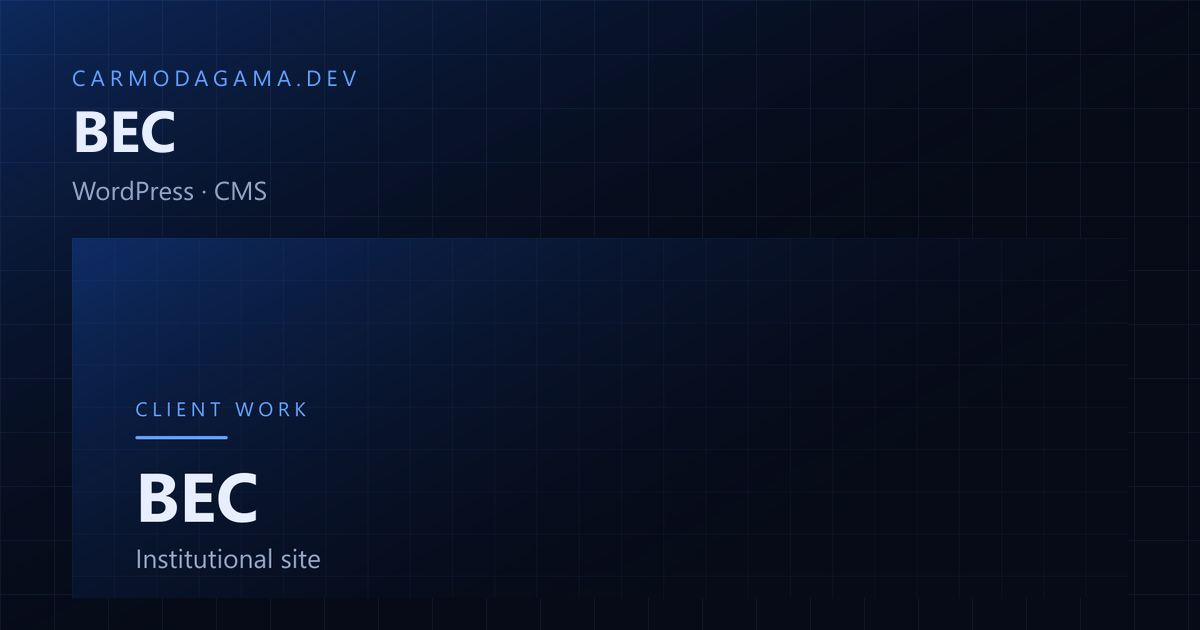
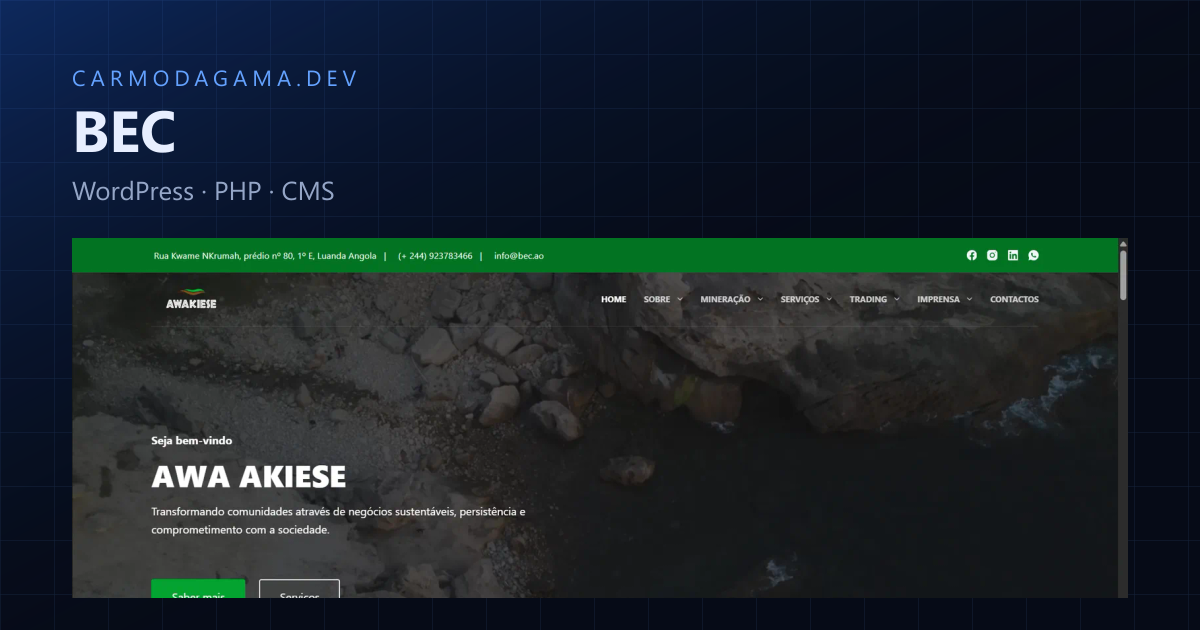
feat: drop two projects and use real screenshots for the client sites
Remove InfraWatch and the health services locator from the projects section.

SMC Cuango, SM Chitotolo and BEC now show screenshots of the live sites instead
of generated artwork, converted to webp at 1600px (1.5 MB PNG each down to
51-84 KB). Projecto Lola keeps its generated cover, since its domain is still
returning 404.

diff --git a/src/i18n/translations.js b/src/i18n/translations.js
@@ -214,20 +214,6 @@ export const translations = {
           password: 'admin123',
         },
         {
-          id: 'infrawatch',
-          name: 'InfraWatch',
-          description: 'Problem: teams running infrastructure need to know something broke before the customer calls, and to separate who can look from who can act. Solution: a real-time monitoring platform with dashboards, metric-processing queues, alerting and role-based access control. My role: a Node.js/TypeScript backend using Redis for queues and ephemeral state, a React frontend for the dashboards, and Docker packaging for reproducible startup. Results: a personal project, developed in the open on GitHub. Stack: Node.js, TypeScript, React, Redis, Docker.',
-          repo: 'https://github.com/CarmoDaGama/InfraWatch',
-          tags: ['Node.js', 'TypeScript', 'React', 'Redis', 'Docker'],
-        },
-        {
-          id: 'myhealth',
-          name: 'Health Services Locator',
-          description: 'Problem: finding the nearest hospital, clinic, pharmacy, emergency unit or laboratory means knowing what exists before you need it — and in an emergency nobody has time to look it up. Solution: a cross-platform mobile app that puts nearby health services on an interactive map, with GPS location, search by name or type, service details, directions and a direct call, plus ratings, comments and favourites. Healthcare professionals can register a service, which an administrator reviews and approves before it goes live. My role: built the app end to end in React Native/Expo with TypeScript — Firebase (Authentication, Firestore, Storage) as the backend, OpenStreetMap with Leaflet for the mapping layer, Portuguese/English localisation with automatic device detection, and an admin dashboard for approvals, roles and action logs. Results: a personal project, developed in the open on GitHub, running entirely within Firebase free-tier limits. Stack: React Native, Expo, TypeScript, Firebase, OpenStreetMap/Leaflet.',
-          repo: 'https://github.com/CarmoDaGama/my-health-app',
-          tags: ['React Native', 'Expo', 'TypeScript', 'Firebase', 'OpenStreetMap'],
-        },
-        {
           id: 'trimed',
           name: 'Trimed',
           description: 'Problem: community platforms needed moderation at scale and distinct experiences per user role; managing permissions by hand was unsustainable. Solution: a multi-tier ecosystem (mobile + web + admin) with real-time moderation, credit management and role-based access control. My role: I architected the cross-platform strategy (React Native for users, Next.js for admins), implemented role-based authorisation, and designed the serverless backend with Firebase Cloud Functions. Results: MVP shipped in weeks, with moderation response time cut against the manual flow. Stack: React Native, Expo, Next.js, Firebase (Firestore, Cloud Functions), TypeScript.',
@@ -531,20 +517,6 @@ export const translations = {
           tags: ['NestJS', 'Next.js', 'PostgreSQL'],
           user: 'admin@microcapital.ao',
           password: 'admin123',
-        },
-        {
-          id: 'infrawatch',
-          name: 'InfraWatch',
-          description: 'Problema: equipas que operam infraestrutura precisam de saber que algo falhou antes do cliente ligar, e de distinguir quem pode ver de quem pode agir. Solução: uma plataforma de monitorização em tempo real, com dashboards, filas de processamento de métricas, alertas e controlo de acesso por funções. O meu papel: backend em Node.js/TypeScript com Redis para filas e estado efémero, frontend React para os dashboards, e empacotamento em Docker para arranque reproduzível. Resultados: projeto próprio, em desenvolvimento aberto no GitHub. Stack: Node.js, TypeScript, React, Redis, Docker.',
-          repo: 'https://github.com/CarmoDaGama/InfraWatch',
-          tags: ['Node.js', 'TypeScript', 'React', 'Redis', 'Docker'],
-        },
-        {
-          id: 'myhealth',
-          name: 'Localizador de Serviços de Saúde',
-          description: 'Problema: encontrar o hospital, clínica, farmácia, unidade de urgência ou laboratório mais próximo obriga a saber o que existe antes de precisar — e numa emergência ninguém tem tempo para procurar. Solução: uma aplicação móvel multiplataforma que coloca os serviços de saúde próximos num mapa interativo, com localização por GPS, pesquisa por nome ou tipo, detalhes do serviço, direções e chamada direta, além de avaliações, comentários e favoritos. Os profissionais de saúde podem registar um serviço, que um administrador revê e aprova antes de ficar visível. O meu papel: construí a aplicação de ponta a ponta em React Native/Expo com TypeScript — Firebase (Authentication, Firestore, Storage) como backend, OpenStreetMap com Leaflet na camada de mapa, localização PT/EN com deteção automática do idioma do dispositivo, e painel de administração para aprovações, funções e registo de ações. Resultados: projeto próprio, em desenvolvimento aberto no GitHub, a correr dentro dos limites do plano gratuito do Firebase. Stack: React Native, Expo, TypeScript, Firebase, OpenStreetMap/Leaflet.',
-          repo: 'https://github.com/CarmoDaGama/my-health-app',
-          tags: ['React Native', 'Expo', 'TypeScript', 'Firebase', 'OpenStreetMap'],
         },
         {
           id: 'trimed',

diff --git a/src/components/Projects.jsx b/src/components/Projects.jsx
@@ -7,26 +7,22 @@ import tmicroPreview from '../assets/project-tmicro.webp';
 import trimedPreview from '../assets/project-trimed.webp';
 import zenixPreview from '../assets/project-zenix.webp';
 import anyconnectPreview from '../assets/project-anyconnect.png';
+import smcuangoPreview from '../assets/project-smcuango.webp';
+import smchitotoloPreview from '../assets/project-smchitotolo.webp';
+import becPreview from '../assets/project-bec.webp';
 import kandongaPreview from '../assets/project-kandonga.png';
 import kandongaPreviewEn from '../assets/project-kandonga.en.png';
-import infrawatchPreview from '../assets/project-infrawatch.png';
-import infrawatchPreviewEn from '../assets/project-infrawatch.en.png';
-import myhealthPreview from '../assets/project-myhealth.png';
-import myhealthPreviewEn from '../assets/project-myhealth.en.png';
-import smcuangoPreview from '../assets/project-smcuango.png';
-import smcuangoPreviewEn from '../assets/project-smcuango.en.png';
-import smchitotoloPreview from '../assets/project-smchitotolo.png';
-import smchitotoloPreviewEn from '../assets/project-smchitotolo.en.png';
 import projectololaPreview from '../assets/project-projectolola.png';
 import projectololaPreviewEn from '../assets/project-projectolola.en.png';
-import becPreview from '../assets/project-bec.png';
-import becPreviewEn from '../assets/project-bec.en.png';
 
 const projectPreviews = {
   tmicro: tmicroPreview,
   trimed: trimedPreview,
   zenix: zenixPreview,
   anyconnect: anyconnectPreview,
+  smcuango: smcuangoPreview,
+  smchitotolo: smchitotoloPreview,
+  bec: becPreview,
 };
 
 // Projects with no product screenshot use generated artwork (see
@@ -35,12 +31,7 @@ const projectPreviews = {
 // it gets letterboxed against its own background instead of being covered.
 const generatedCovers = {
   kandonga: { pt: kandongaPreview, en: kandongaPreviewEn },
-  infrawatch: { pt: infrawatchPreview, en: infrawatchPreviewEn },
-  myhealth: { pt: myhealthPreview, en: myhealthPreviewEn },
-  smcuango: { pt: smcuangoPreview, en: smcuangoPreviewEn },
-  smchitotolo: { pt: smchitotoloPreview, en: smchitotoloPreviewEn },
   projectolola: { pt: projectololaPreview, en: projectololaPreviewEn },
-  bec: { pt: becPreview, en: becPreviewEn },
 };
 
 const previewSrc = (project, language) =>
